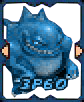
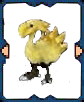
card data pulled from database and passed to canvas

diff --git a/site/htdocs/card-game/card-game.js b/site/htdocs/card-game/card-game.js
@@ -1,3 +1,35 @@
+
+
+
+
+
+
+// config ----------------------------------------------------
+
+framesPerSecond = 24;
+playerColours = ["#ffcc00","#ff00cc"];
+ 
+    cardWidth = 84;
+            cardHeight = 102;
+        
+            allCardsThisGame = player1Cards.concat(player2Cards);
+            numberOfCardsInGame = allCardsThisGame.length;
+
+
+
+
+
+// helper functions ----------------------------------------------------
+
+// http://stackoverflow.com/questions/9229645/remove-duplicates-from-javascript-array#answer-9229821
+function uniqueValues(a) {
+    var seen = {};
+    return a.filter(function(item) {
+        return seen.hasOwnProperty(item) ? false : (seen[item] = true);
+    });
+}
+
+
 // -----------------------------------------------------------
 // http://paulirish.com/2011/requestanimationframe-for-smart-animating/
 // http://my.opera.com/emoller/blog/2011/12/20/requestanimationframe-for-smart-er-animating
@@ -34,20 +66,6 @@
 
 
 
-
-// config ----------------------------------------------------
-
-framesPerSecond = 24;
-playerColours = ["#ffcc00","#ff00cc"];
- 
-    cardWidth = 84;
-            cardHeight = 102;
-            // player's cards:
-            var player1Cards = [1,2,1,1,1];
-             // NPC's cards:
-            var player2Cards = [1,1,2,2,2];
-            allCardsThisGame = player1Cards.concat(player2Cards);
-            numberOfCardsInGame = allCardsThisGame.length;
 
 // image loader -----------------------------------------------------------
 // http://stackoverflow.com/questions/16560397/image-not-drawn-on-canvas-until-user-clicks
@@ -164,12 +182,23 @@ window.Loader = (function () {
 
 if ((cutsTheMustard) && (supportsCanvas())) {
 
-// find non-duplicate card types to load
-// build imagesToLoad array dynamically for cards
+// find non-duplicate card types to load:
+allCardsToLoadThisGame = uniqueValues(allCardsThisGame);
+var numberOfCardTypes = allCardsToLoadThisGame.length;
+
+
+var imagesToLoad = [{name: "board", src: "http://www.autumnearth.com/images/card-game/board.jpg"}];
+
+// build imagesToLoad array dynamically for cards:
+for (var i = 1; i <= numberOfCardTypes; i++) {
+
+imagesToLoad.push({name: "card"+i, src: "http://www.autumnearth.com/images/card-game/cards/"+i+".png"});
+}
+
 
 // preload all images
 
-var imagesToLoad = [{name: "board", src: "http://www.autumnearth.com/images/card-game/board.jpg"},{name: "card1", src: "http://www.autumnearth.com/images/card-game/cards/1.png"},{name: "card2", src: "http://www.autumnearth.com/images/card-game/cards/2.png"}];
+
 
 Loader.preload(imagesToLoad,initCardGame, loadingProgress); 
 }
@@ -199,11 +228,15 @@ for (var i = 0; i < numberOfCardsInGame; i++) {
         originalOwner: 0,
         hasBeenPlaced: false,
         cardType: allCardsThisGame[i],
+        attack: allCardData[(allCardsThisGame[i])][0],
+        defense: allCardData[(allCardsThisGame[i])][1],
         currentOwner: (i>=(numberOfCardsInGame/2) ? 1 : 0),
         draw: function() {
             gameContext.fillStyle = playerColours[this.currentOwner];
             gameContext.fillRect(this.x, this.y, cardWidth, cardHeight);
-            gameContext.drawImage(cardImages[this.cardType], this.x, this.y);
+           gameContext.drawImage(cardImages[this.cardType], this.x, this.y);
+           
+     
         }
     }
 }
@@ -214,7 +247,7 @@ for (var i = 0; i < numberOfCardsInGame; i++) {
 
 
 // set up image references:
-var numberOfCardTypes = imagesToLoad.length;
+
 cardImages = [];
 for (var i = 1; i <= numberOfCardTypes; i++) {
 cardImages[i] = Loader.getImage("card"+i);

diff --git a/site/htdocs/card-game/index.php b/site/htdocs/card-game/index.php
@@ -10,15 +10,75 @@ include($_SERVER['DOCUMENT_ROOT']."/includes/header.php");
 <div class="row">
 <div class="column">
 
+<?php
+// get all card data:
+
+$query = "select * from tblCards";
+$result = mysql_query($query) or die ("couldn't execute query");
+if (mysql_num_rows($result) > 0) {
+
+$cardDataNeeded = array(array(null,null,null));
+while ($row = mysql_fetch_array($result)) {
+
+extract($row);
+
+array_push($cardDataNeeded, array($cardAttack, $cardDefense, $cardName));
+
+
+
+	}
+}
+
+// check if logged in, get character's cards if so, otherwise use the default deck:
+$playersCards = array(1,2,1,1,1);
+
+if(isset($_SESSION['username'])) {
+$query = "select tblcharacters.currentCards as currentCards, tblcharacters.charId as charID
+from tblcharacters
+inner join tblacct on tblacct.currentCharID = tblcharacters.charID
+where tblacct.accountName='".$_SESSION['username']."'";
+$result = mysql_query($query) or die ("couldn't execute query");
+
+		$returned = mysql_num_rows($result);
+	
+	if ($returned > 0) {
+	
+	$row = mysql_fetch_array($result);
+	
+		extract($row); 
+	
+		if ($currentCards != "") {
+$playersCards = explode(",",$currentCards);
+		}
+}
+}
+
+$npcsCards = array(1,1,2,3,2);
+?>
+
+
+
+
+
+
+
 <div class="canvasWrapper">
 <canvas id="cardGame" width="1000" height="500">
   <img src="/images/card-game-no-canvas.jpg" alt="Card game">
 </canvas>
+<script>
+var allCardData = <?php echo json_encode($cardDataNeeded); ?>;
+var player1Cards = <?php echo json_encode($playersCards); ?>;
+var player2Cards = <?php echo json_encode($npcsCards); ?>;
+</script>
 </div>
 
 
 </div>
 </div>
+
+
+
 
 <?php
 $additionalAssets = '<script src="card-game.js"></script>'."\n";
